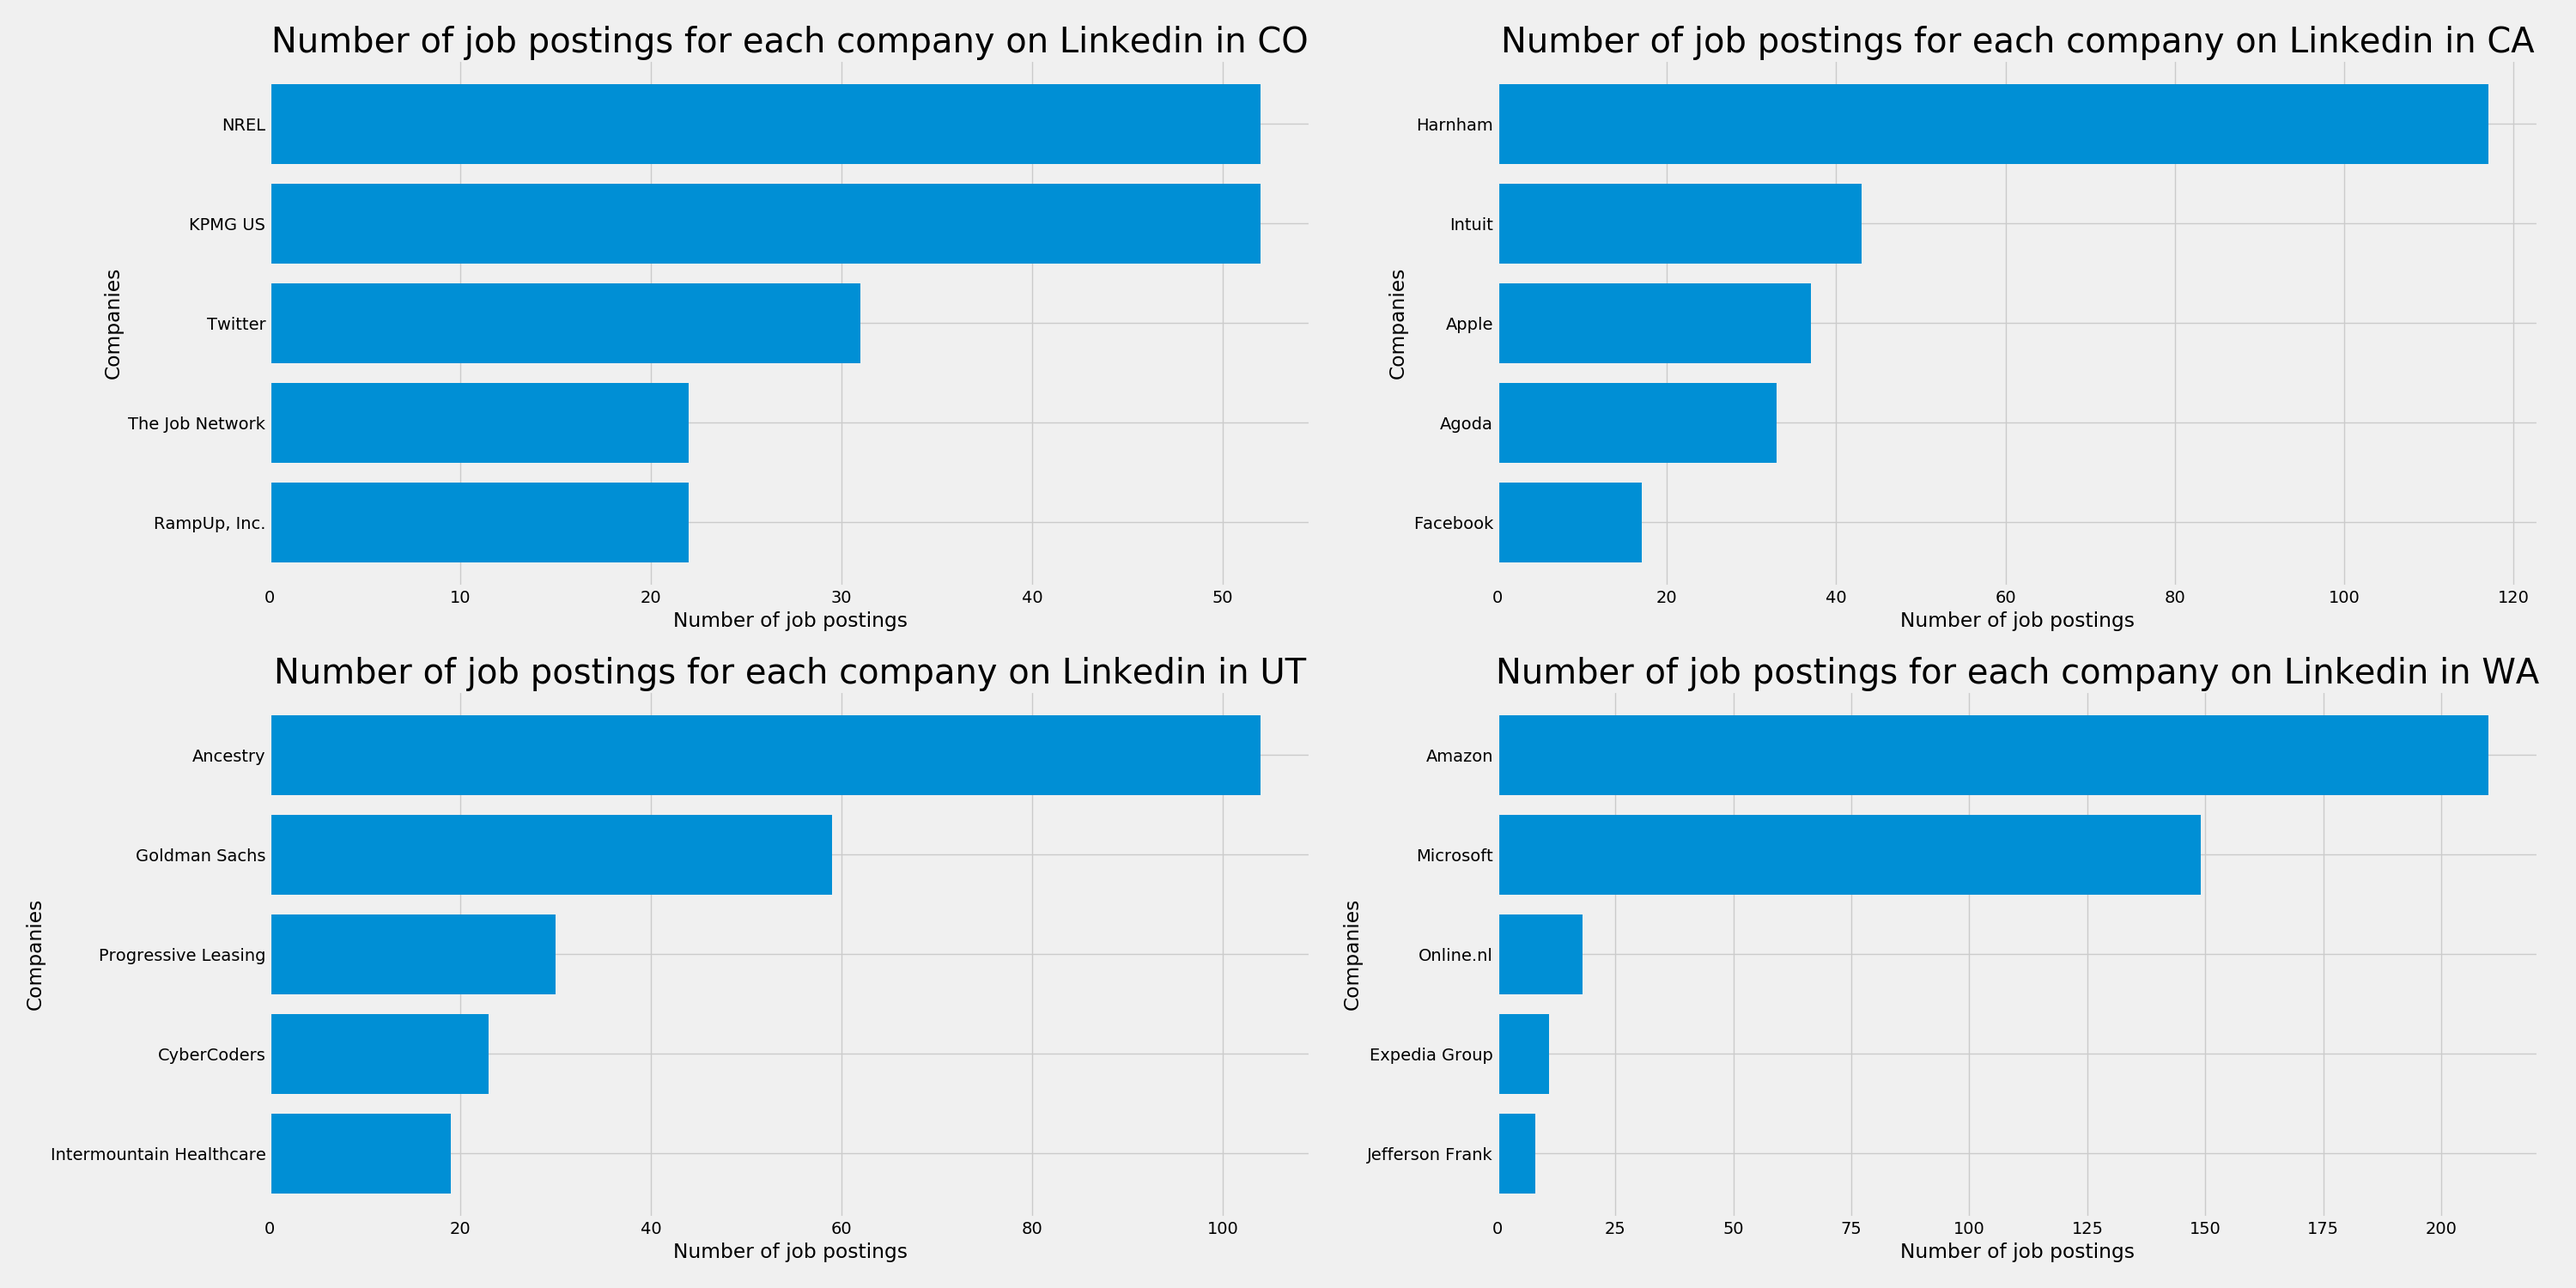
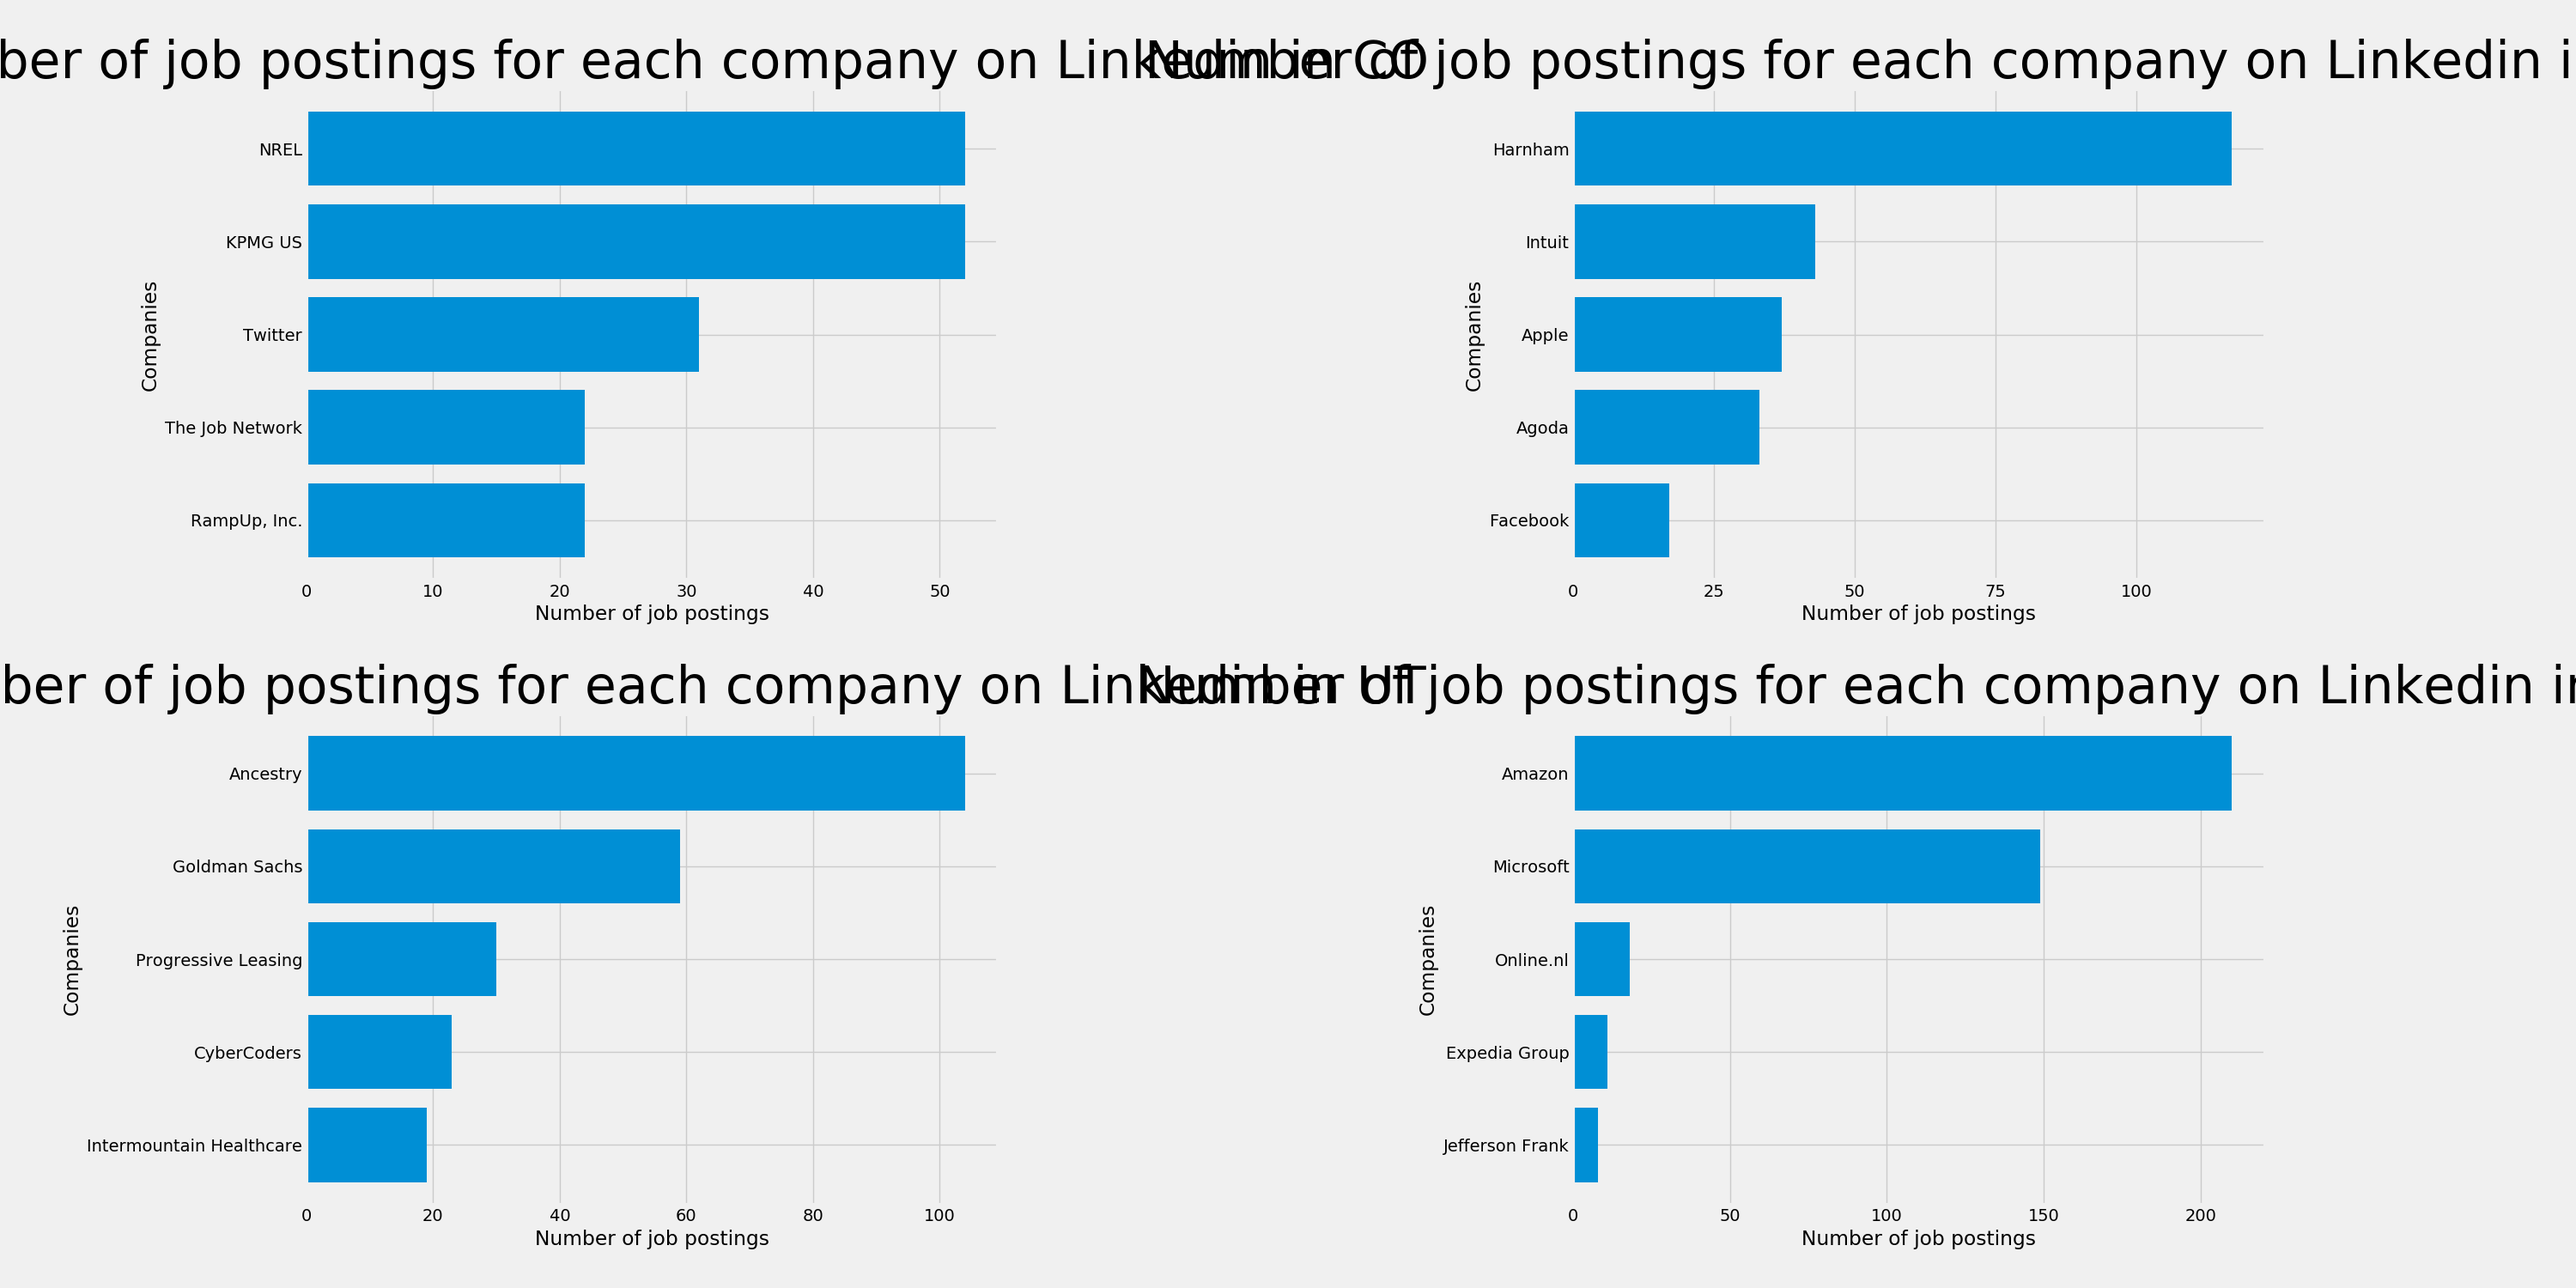
Messing with final graph

diff --git a/src/graphing_eda.py b/src/graphing_eda.py
@@ -129,7 +129,7 @@ def graph_top10_companies(state_id, ax):
 list_of_locs = ['CO', 'CA', 'UT', 'WA']
 
 fig, axs = plt.subplots(2, 2, figsize=(30,15))
-plt.rcParams.update({"font.size": 20})
+plt.rcParams.update({"font.size": 30})
 for loc, ax in zip(list_of_locs, axs.flatten()):
     graph_top10_companies(loc, ax)
 
